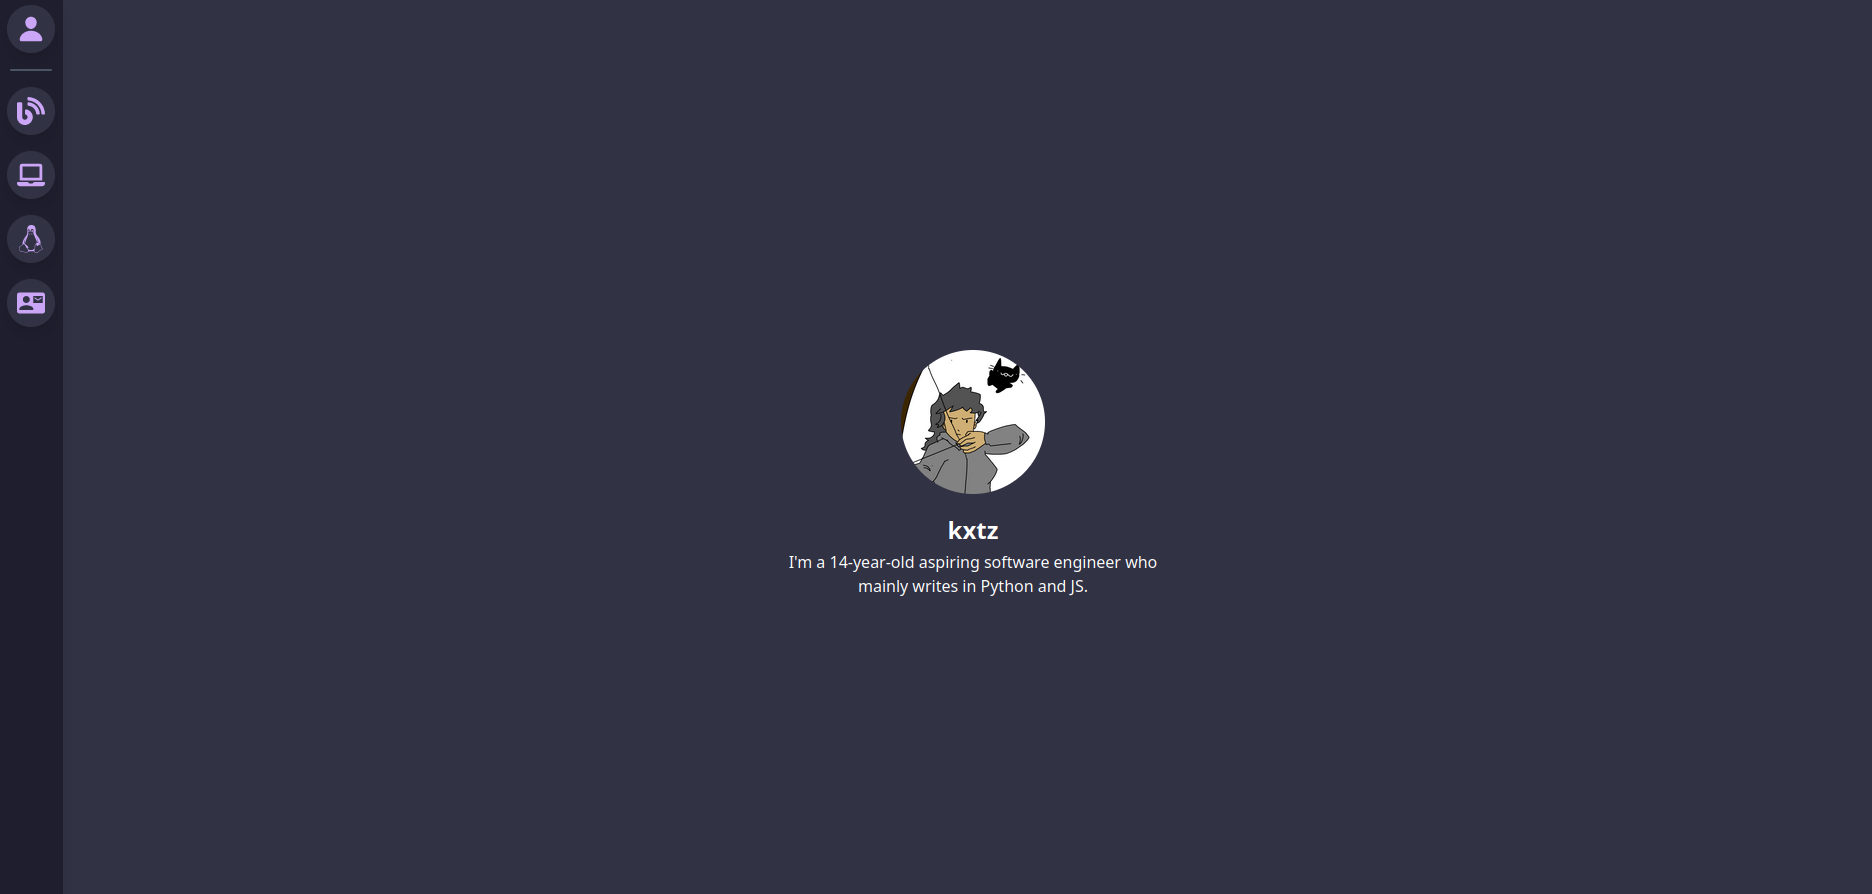
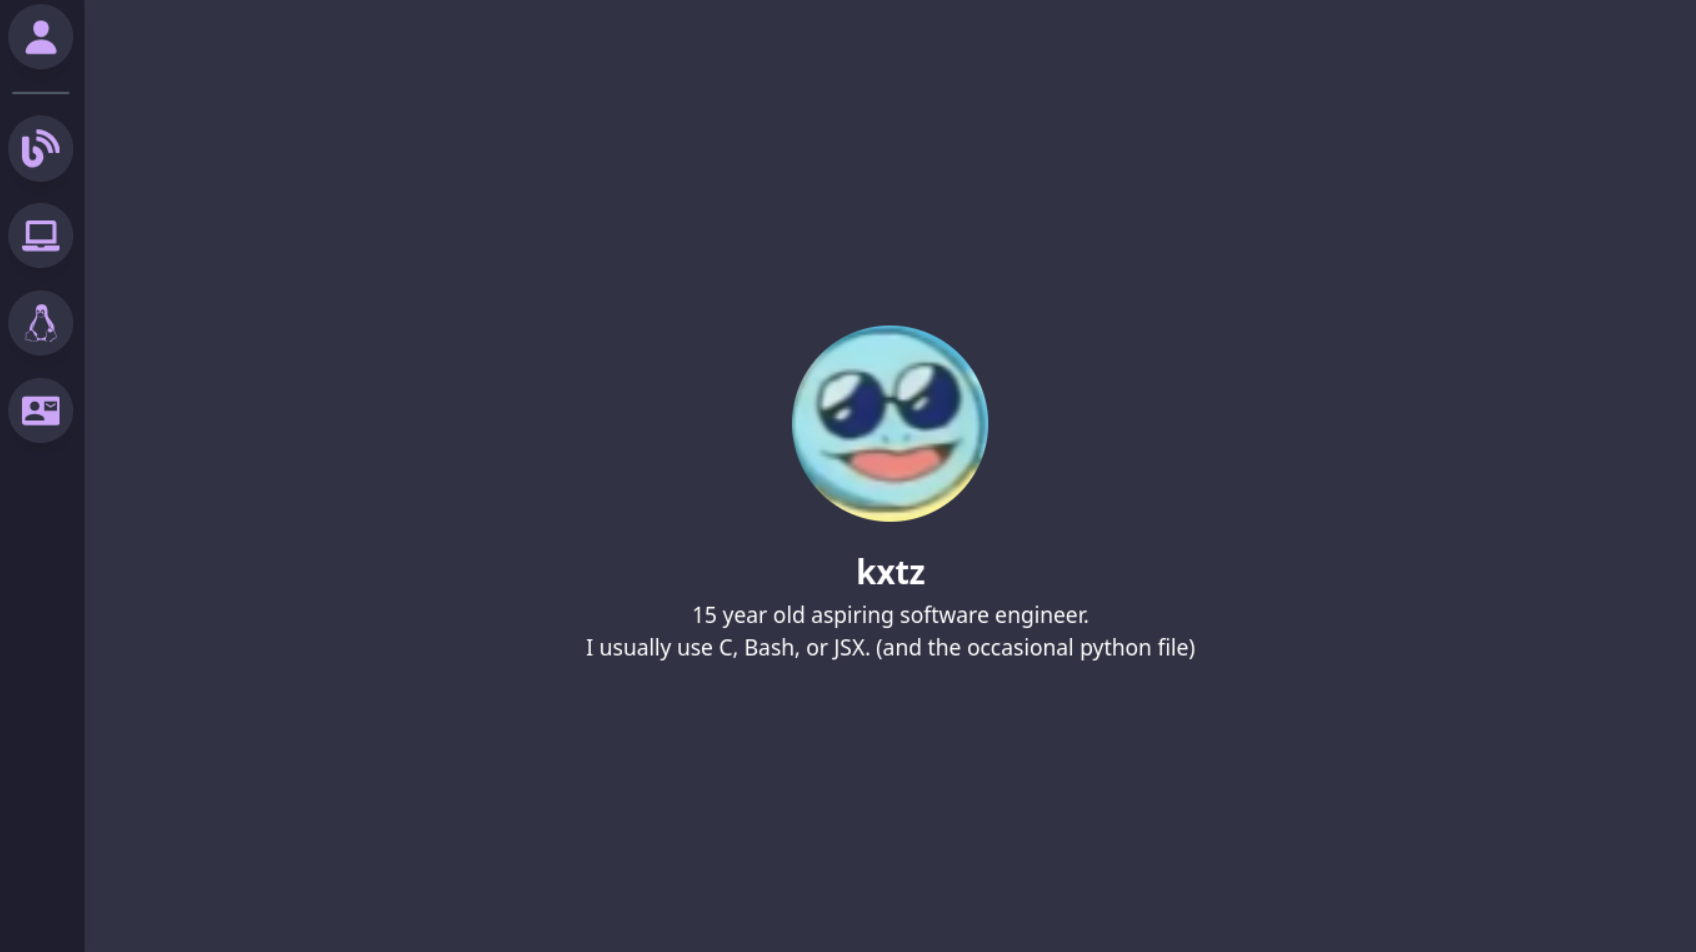
update stuff, deprecate old blog, add contact info

diff --git a/src/channels/Contact.jsx b/src/channels/Contact.jsx
@@ -1,7 +1,20 @@
+/* 
+<a href="https://discord.com/users/952792525637312552" target="_blank"><i class="fab fa-discord"></i></a>
+<a href="https://github.com/kxtzownsu" target="_blank"><i class="fab fa-github"></i></a>
+<a href="https://steamcommunity.com/id/kxtzownsu" target="_blank"><i class="fab fa-steam"></i></a>
+<a href="https://defcon.social/@kxtzownsu" target="_blank"><i class="fab fa-mastodon"></i></a>
[1 lines of base64/hex data omitted]
+*/
+
 export function Contact() {
     return (
-        <div className="text-white">
-            <p>Contact</p>
+        <div className="text-primary">
+            <h1 className="text-1xl">Discord: <a className="text-blue-400 underline" href="https://discord.com/users/952792525637312552">@kxtzownsu</a></h1>
+            <h1 className="text-1xl">Steam: <a className="text-blue-400 underline" href="https://steamcommunity.com/id/kxtzownsu">@kxtzownsu</a></h1>
+            <h1 className="text-1xl">Mastodon: <a className="text-blue-400 underline" href="https://defcon.social/@kxtzownsu">@kxtzownsu</a></h1>
+            <h1 className="text-1xl">GitHub: <a className="text-blue-400 underline" href="https://github.com/kxtzownsu">@kxtzownsu</a></h1>
+            <h1 className="text-1xl">Email: <a className="text-blue-400 underline" href="mailto:me@kxtz.dev">me@kxtz.dev</a> <i className=" text-xs">(for legal inquiries contact <a className="text-blue-400 underline" href="mailto:legal@kxtz.dev">legal@kxtz.dev</a>)</i></h1>
+            <h1 className="text-1xl">XMR: <a className="text-blue-400 underline" href="https://kxtz.dev/wallet.txt">41h6Asgfua54AoroRA2HPbM7fJU9Bgpfg3BxP5Fy7yKRWKihS4mUqdSB4htftbxwNQQiPMAvW8oT1gJWghf1mmxR11UrE3W</a></h1>
         </div>
     );
 };

diff --git a/src/channels/AboutMe.jsx b/src/channels/AboutMe.jsx
@@ -1,10 +1,10 @@
 export function AboutMe() {
   return (
     <div className="text-white flex flex-col items-center justify-center p-2 h-screen rounded-md overflow-hidden">
-      <img src="/kxtz.png" alt="me :3" className="rounded-full mb-5 w-36 y-36" />
-      <h1 className="mb-1 text-2xl font-bold">katelyn <i className="text-sm">(kxtz)</i></h1>
+      <img src="https://kxtz.dev/kxtz.png" alt="me :3" className="rounded-full mb-5 w-36 y-36" />
+      <h1 className="mb-1 text-2xl font-bold">kxtz </h1>
       <p className="text-center">
-        I'm a 15-year-old programmer who <br />mainly writes in Python and JS and uses Arch btw.
+        15 year old aspiring software engineer. <br />I usually use C, Bash, or JSX. (and the occasional python file)
       </p>
     </div>
   );

diff --git a/src/channels/Blog.jsx b/src/channels/Blog.jsx
@@ -1,11 +1,9 @@
-import { BlogViewer } from './BlogViewer';
-
 export function Blog() {
+    window.location.href = "https://blog.kxtz.dev";
+    // window.location.reload();
     return (
-        <div className="text-white flex flex-col items-center mx-auto pt-10">
-            <h1 className="text-4xl">kxtz' shitty blog</h1>
-            <div className="bg-gray-600 h-2 w-8/12 my-2 mx-auto rounded"></div>
-            <BlogViewer />
-        </div>
+        <p>
+            redirecting to blog website.. https://blog.kxtz.dev
+        </p>
     );
 };

diff --git a/src/channels/Projects.jsx b/src/channels/Projects.jsx
@@ -14,12 +14,11 @@ const projectsData = [
     title: 'KVS',
     description: 'KVS: Kernel Version Switcher, made for unenrolled devices.',
     imageUrl: 'img/proj-kvs.png',
+    url: 'https://kvs.kxtz.dev',
   },
 ];
 
 
-// OH MY GOD WHAT THE FUCKING HELL IS THIS SHIT
-// IT LOOKS UGLY BUT I KNOW ITS NORMAL :sob:
 export function Projects(){
   return (
     <div className="grid grid-cols-1 md:grid-cols-2 lg:grid-cols-3 gap-4">
